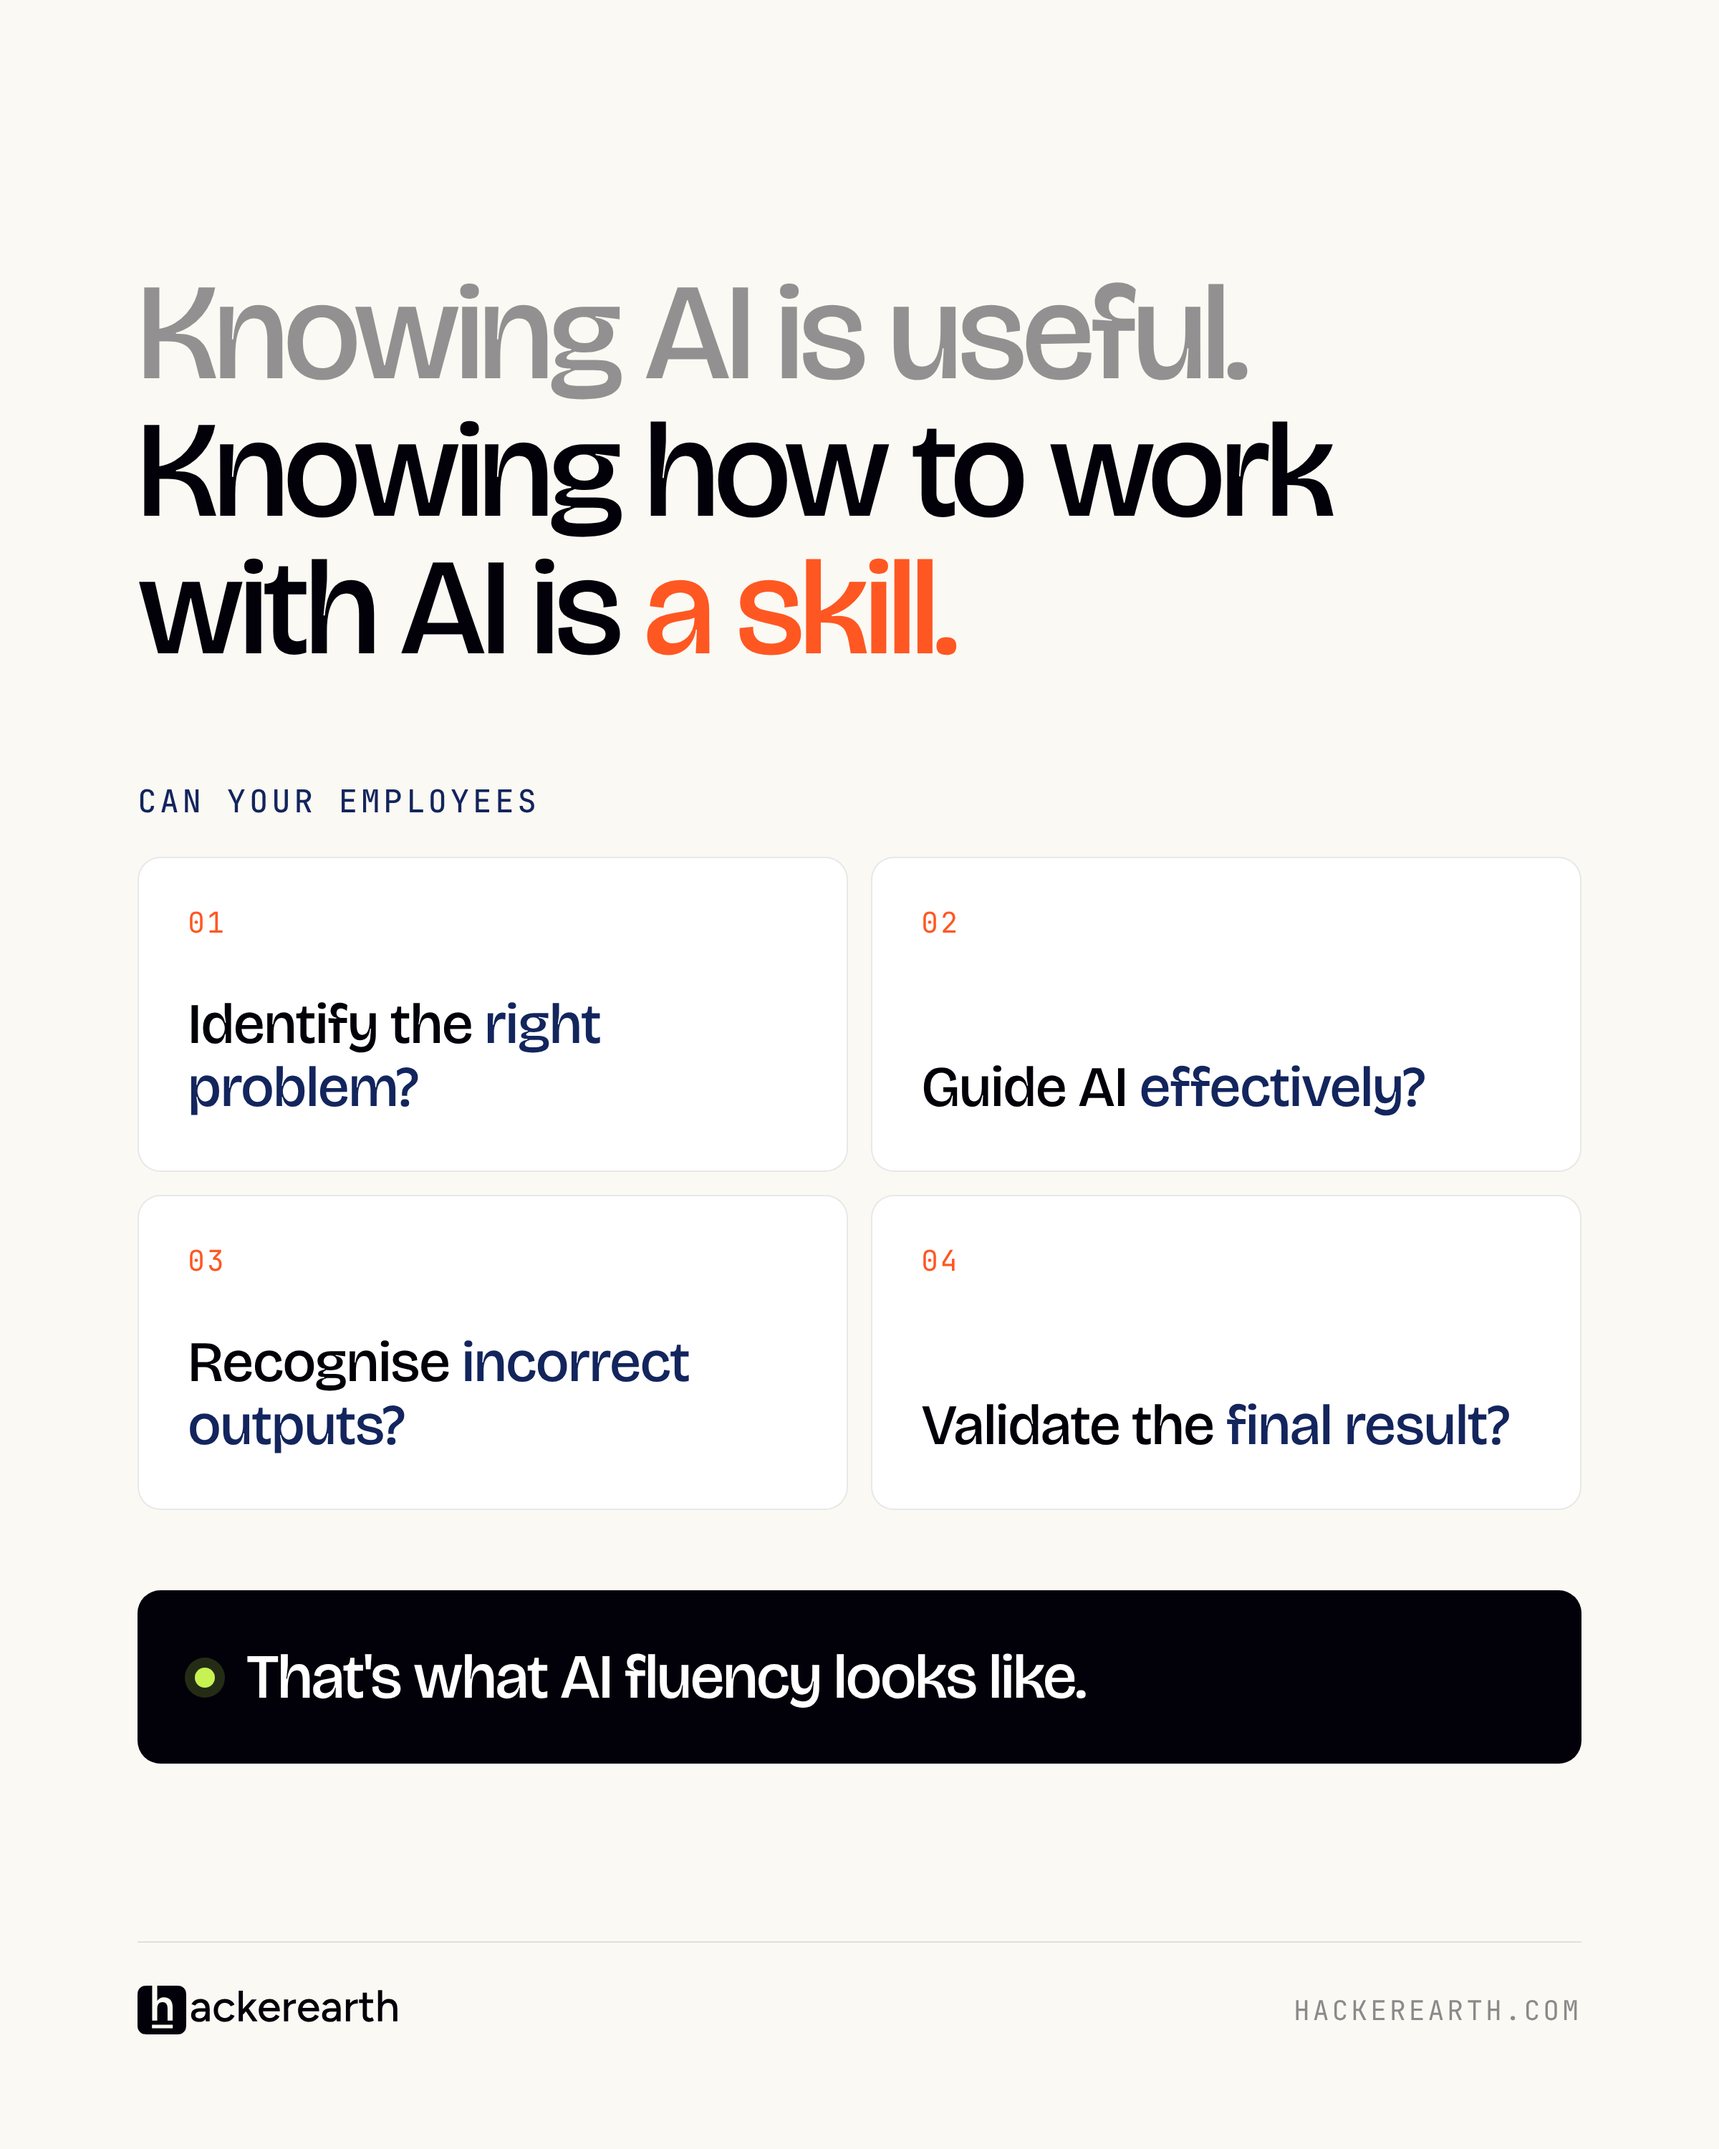
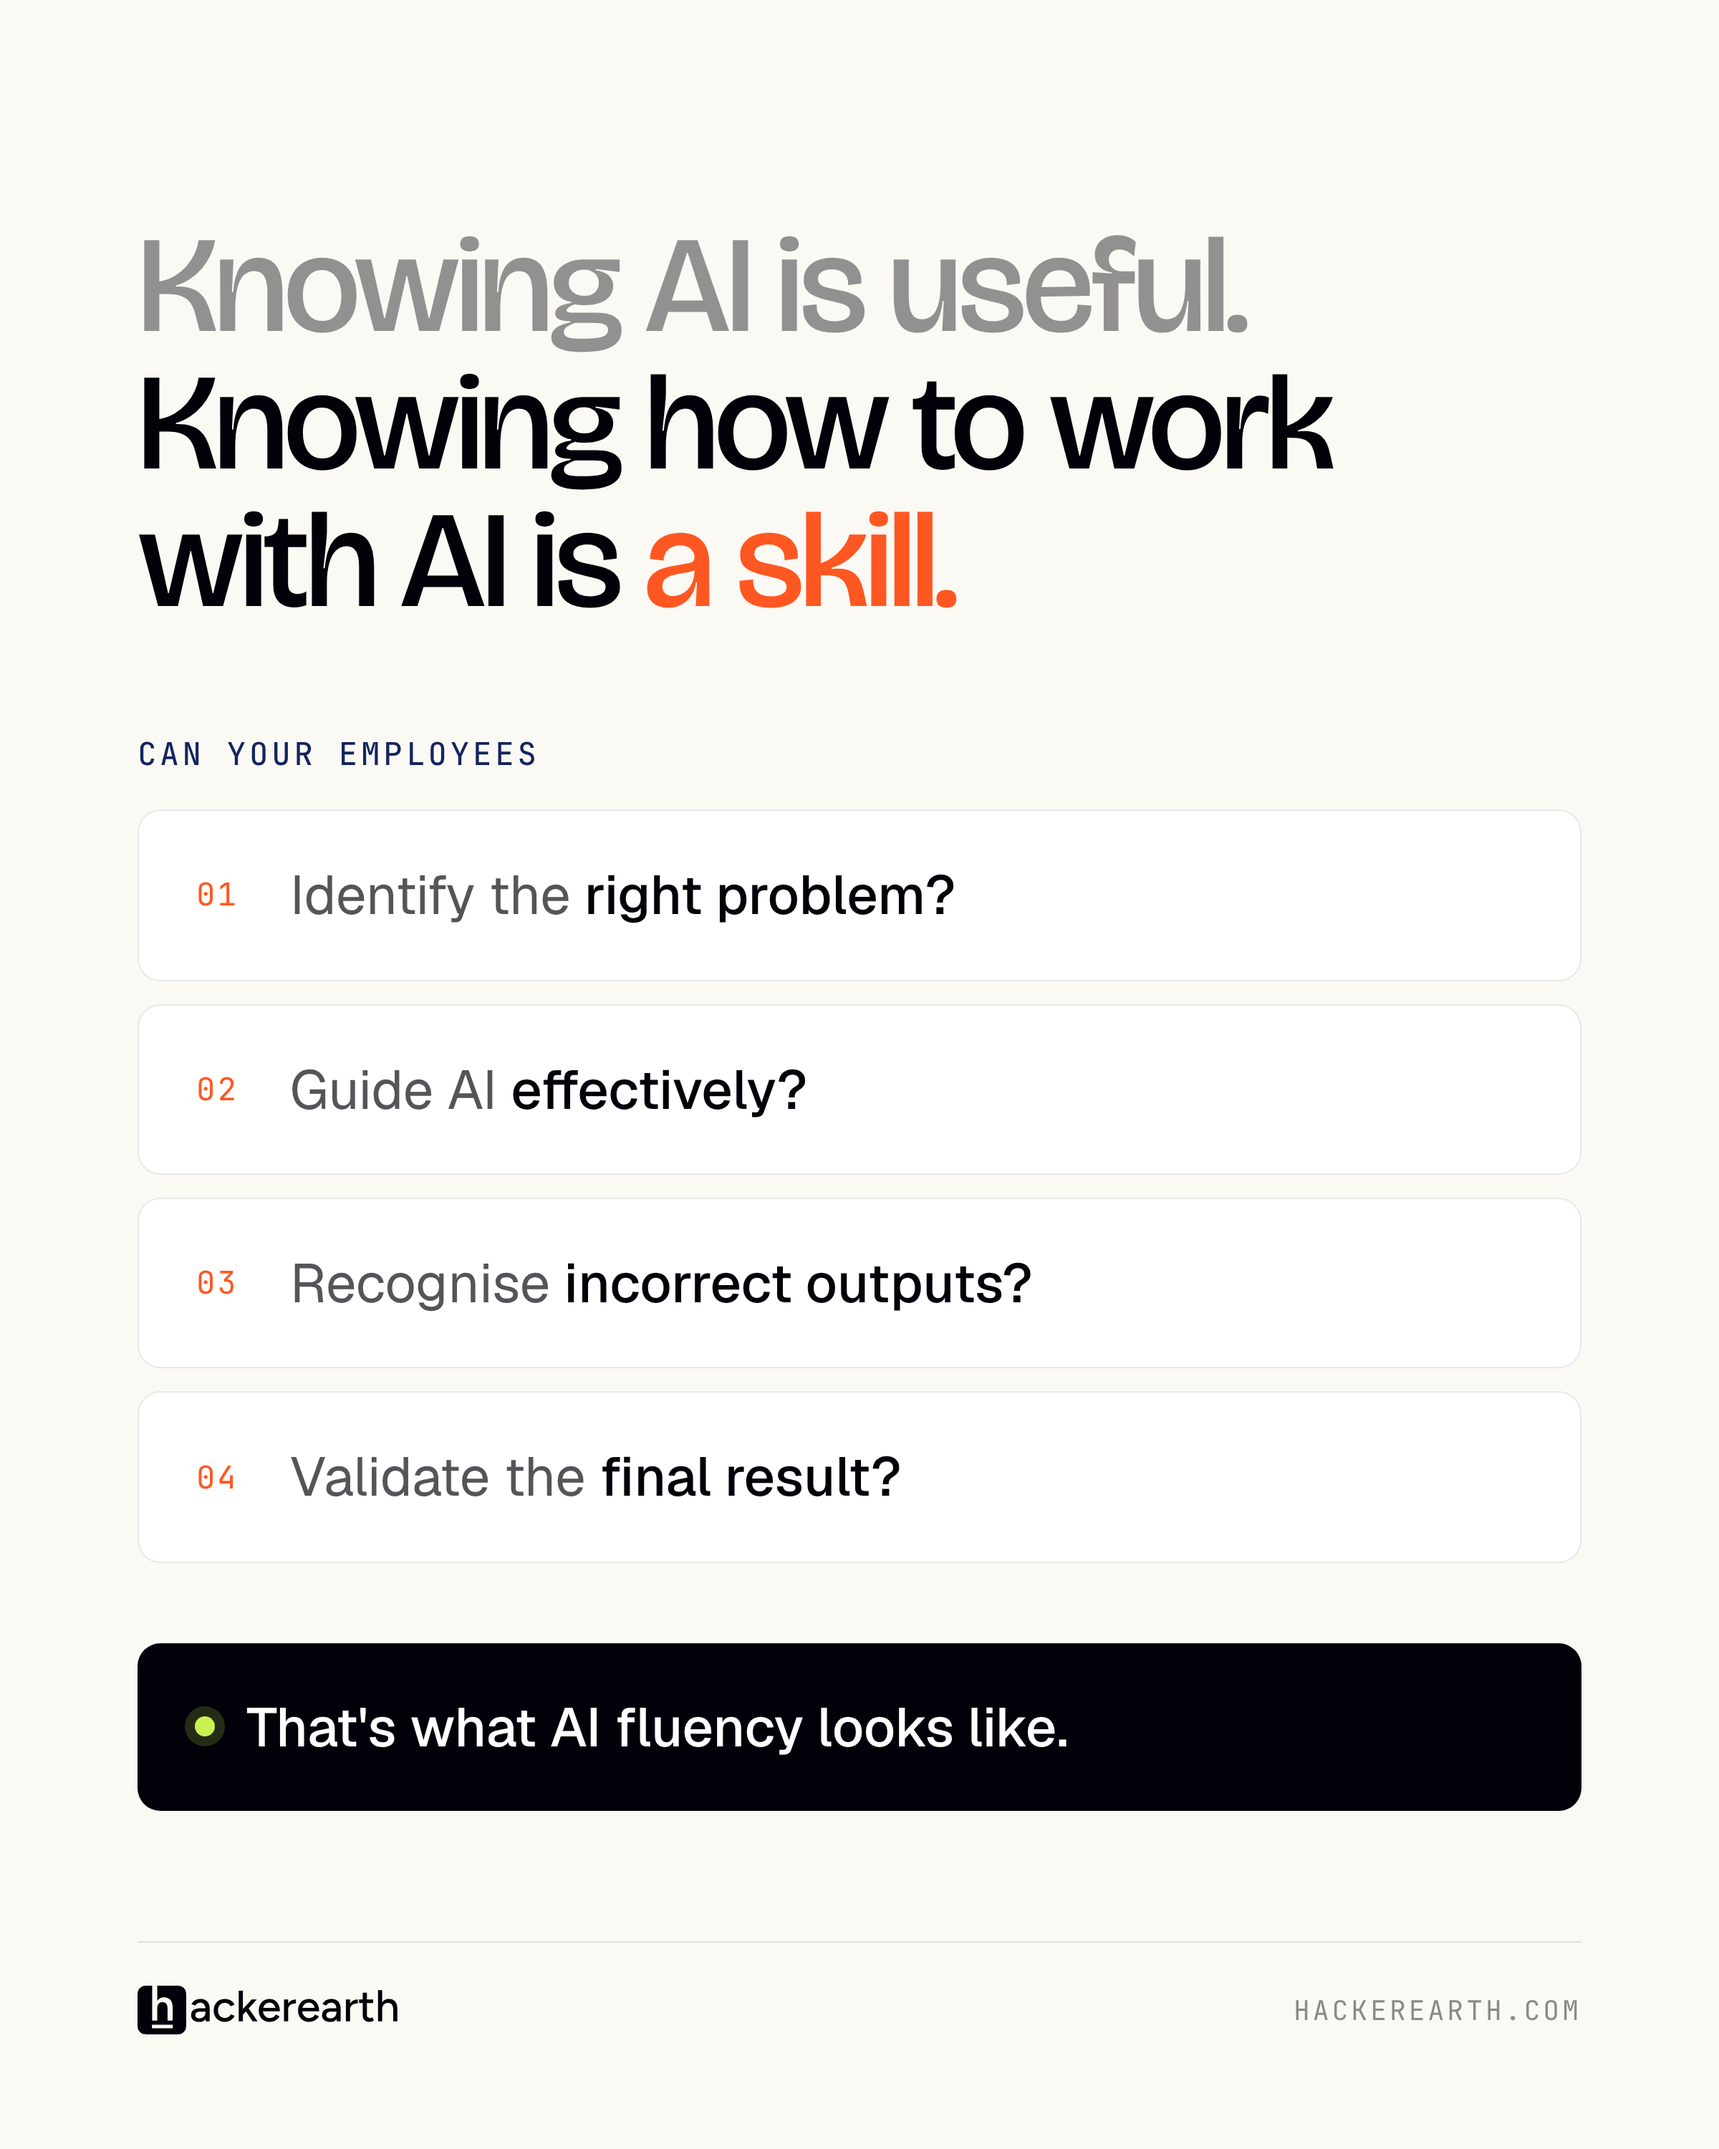
LinkedIn post: Geist body copy, stacked question rows
Claude-Session: https://claude.ai/code/session_011WvSfb42evzejCjJy5b8i8

diff --git a/linkedin-ai-fluency/post.html b/linkedin-ai-fluency/post.html
@@ -9,12 +9,12 @@
   .h-li .pre{display:block;color:rgba(2,1,9,.42)}
   .h-li em{font-style:normal;color:var(--cta)}
   .ask{margin-top:72px;font-family:var(--mono);font-size:22px;letter-spacing:2.4px;text-transform:uppercase;color:var(--accent);font-weight:500}
-  .qgrid{margin-top:24px;display:grid;grid-template-columns:1fr 1fr;gap:16px}
-  .q{background:var(--card);border:1px solid rgba(2,1,9,.09);border-radius:16px;padding:32px 34px 36px;min-height:220px;display:flex;flex-direction:column}
-  .q .idx{color:var(--cta)}
-  .q .qt{margin-top:auto;font-family:var(--display);font-weight:500;font-variation-settings:"opsz" 48;font-size:40px;line-height:1.1;letter-spacing:-.8px;color:var(--ink)}
-  .q .qt span{color:var(--accent)}
-  .closer-li{margin-top:56px;padding:34px 40px;border-radius:16px;background:var(--ink);color:#fff;display:flex;align-items:center;gap:22px;font-family:var(--display);font-weight:500;font-variation-settings:"opsz" 72;font-size:44px;letter-spacing:-1px}
+  .qgrid{margin-top:24px;display:flex;flex-direction:column;gap:16px}
+  .q{background:var(--card);border:1px solid rgba(2,1,9,.09);border-radius:16px;padding:34px 40px;display:flex;align-items:center;gap:36px}
+  .q .idx{color:var(--cta);font-size:22px}
+  .q .qt{font-family:var(--body);font-weight:400;font-size:38px;line-height:1.3;color:var(--muted)}
+  .q .qt span{color:var(--ink);font-weight:500}
+  .closer-li{margin-top:56px;padding:34px 40px;border-radius:16px;background:var(--ink);color:#fff;display:flex;align-items:center;gap:22px;font-family:var(--body);font-weight:500;font-size:38px}
 </style></head>
 <body>
 <section class="slide cream li">
